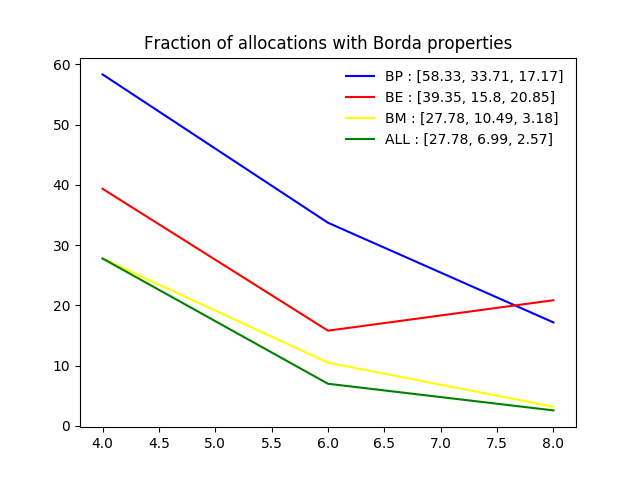
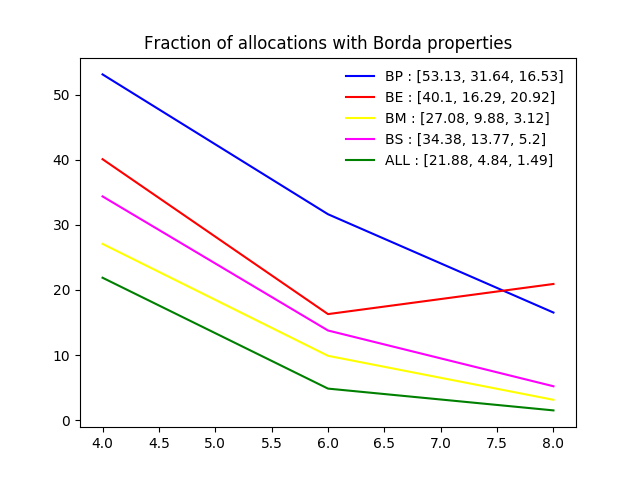
after ajout Borda Sum

diff --git a/measures2.py b/measures2.py
@@ -3,15 +3,16 @@ import time
 import matplotlib.pyplot as plt
 
 Nmin = 4
-Nmax = 6
+Nmax = 8
 Borda_Pareto = list()
 Borda_EF = list()
 Borda_MM = list()
-Borda_Pareto_EF_MM = list()
+Borda_S = list()
+Borda_Pareto_EF_MM_S = list()
 
 for N in range(Nmin, Nmax+1, 2):
-    # L_C = L_couple_single_peaked_preferences(N)
-    L_C = L_couple_toutes_preferences(N)
+    L_C = L_couple_single_peaked_preferences(N)
+    # L_C = L_couple_toutes_preferences(N)
     print("Number of problems : {}".format(len(L_C)))
     X = all_possible_allocations(N)
     print("Number of balanced allocations : {}".format(len(X)))
@@ -59,22 +60,37 @@ for N in range(Nmin, Nmax+1, 2):
     Borda_MM.append(round(100.* nb_m/(len(L_C) * len(X)), 2))
 
 
+    t1 = time.time()
+    M_S = matrix_of_BS_allocations_values(N=N, X=X, L_of_couple_of_pprofiles=L_C)
+    print("Borda-Sum", time.time() - t1)
+    print("Matrix generated!")
+
+    nb_s = 0
+    for i in range(len(L_C)):
+        for j in range(len(X)):
+            if M_S[i, j]:
+                nb_s += 1
+
+    Borda_S.append(round(100.* nb_s/(len(L_C) * len(X)), 2))
+
+
     nb_all = 0
     for i in range(len(L_C)):
         for j in range(len(X)):
-            if M_MM[i, j] and M_EF[i, j] and M_PO[i, j]:
+            if M_MM[i, j] and M_EF[i, j] and M_PO[i, j] and M_S[i, j]:
                 nb_all += 1
 
-    Borda_Pareto_EF_MM.append(round(100.* nb_all/(len(L_C) * len(X)), 2))
+    Borda_Pareto_EF_MM_S.append(round(100. * nb_all / (len(L_C) * len(X)), 2))
 
 
 pa, = plt.plot(range(Nmin, Nmax+1, 2), Borda_Pareto, color="blue")
 ef, = plt.plot(range(Nmin, Nmax+1, 2), Borda_EF, color="red")
 mm, = plt.plot(range(Nmin, Nmax+1, 2), Borda_MM, color="yellow")
-al, = plt.plot(range(Nmin, Nmax+1, 2), Borda_Pareto_EF_MM, color="green")
+bs, = plt.plot(range(Nmin, Nmax+1, 2), Borda_S, color="magenta")
+al, = plt.plot(range(Nmin, Nmax+1, 2), Borda_Pareto_EF_MM_S, color="green")
 
-plt.legend([pa, ef, mm, al], ["BP : {}".format(Borda_Pareto), "BE : {}".format(Borda_EF), "BM : {}".format(Borda_MM), "ALL : {}".format(Borda_Pareto_EF_MM)],
-           loc = 'upper right',  markerscale = 100, frameon = False, fontsize = 10)
+plt.legend([pa, ef, mm, bs, al], ["BP : {}".format(Borda_Pareto), "BE : {}".format(Borda_EF), "BM : {}".format(Borda_MM),"BS : {}".format(Borda_S), "ALL : {}".format(Borda_Pareto_EF_MM_S)],
+           loc = 'upper right', markerscale = 100, frameon = False, fontsize = 10)
 plt.title("Fraction of allocations with Borda properties")
 plt.savefig("Fraction_of_allocations_with_Borda_properties[{}].png".format(Nmax))
 plt.close()

diff --git a/cocomax.py b/cocomax.py
@@ -144,6 +144,38 @@ def matrix_of_MM_allocations_values(N=0, X=[], L_of_couple_of_pprofiles=(None, N
     return M
 
 
+def S_allocations_values(N=0, X=[], agent1_pprofile=[], agent2_pprofile=[]):
+    """int * Allocations * Liste[Couple[Profile, Profile]] -> List[bool]
+    retourne une liste de booleens. Elle est telle que la valeur a la position i  est
+    vraie ssi l'allocation a la position i dans X respecte la propriete Borda - Sum"""
+
+    S_list = list()
+    B = matrix_of_borda_scores(N=N, X=X, agent1_pprofile=agent1_pprofile, agent2_pprofile=agent2_pprofile)
+    L_of_sum_B_X_m = [sum(B[j]) for j in range(len(X))]
+    member_droit = max(L_of_sum_B_X_m)
+    for i in range(len(X)):
+        # (6) pg 6 : sum_{m} Bm(Xm)
+        member_gauche = L_of_sum_B_X_m[i]
+        S_list.append(member_gauche == member_droit)
+
+    return S_list
+
+def matrix_of_BS_allocations_values(N=0, X=[], L_of_couple_of_pprofiles=(None, None)):
+    """int * Allocations * Liste[Couple[Profile, Profile]] -> Matrix[len(L_of_couple_of_pprofiles), len(X)]
+    retourne une matrice dont chaque ligne represente un couple de profils de preference des agents 1 et 2
+    et chaque colonne une allocation possible. A l'intersection on a un booleen b indiquant si l'allocation (en colonne)
+    respecte le propriete Borda-Sum etant donne le couple de profils de preference (en ligne)"""
+    M = np.zeros((0, len(X)))
+    for i in range(len(L_of_couple_of_pprofiles)):
+        agent1_pprofile, agent2_pprofile = L_of_couple_of_pprofiles[i]
+        BS_values = S_allocations_values(N=N, X=X, agent1_pprofile=agent1_pprofile, agent2_pprofile=agent2_pprofile)
+        M = np.vstack((M, np.array(BS_values)))
+    return M
+
+
+
+
+
 # N = 4
 # X = all_possible_allocations(N)
 # print(X)

diff --git a/measures.py b/measures.py
@@ -6,7 +6,8 @@ import matplotlib.pyplot as plt1
 
 Nmin = 4
 Nmax = 12
-print("Q1 : How many allocations are generated by each algorithm on average?")
+print("Q1 : How many allocations are generated by each algorithm on average? \n"
+      " And what about the fraction of problems in which a unique allocation is generated?")
 
 #generation de couples de profils rapides jusqu'a N = 12
 RS_values = list()
